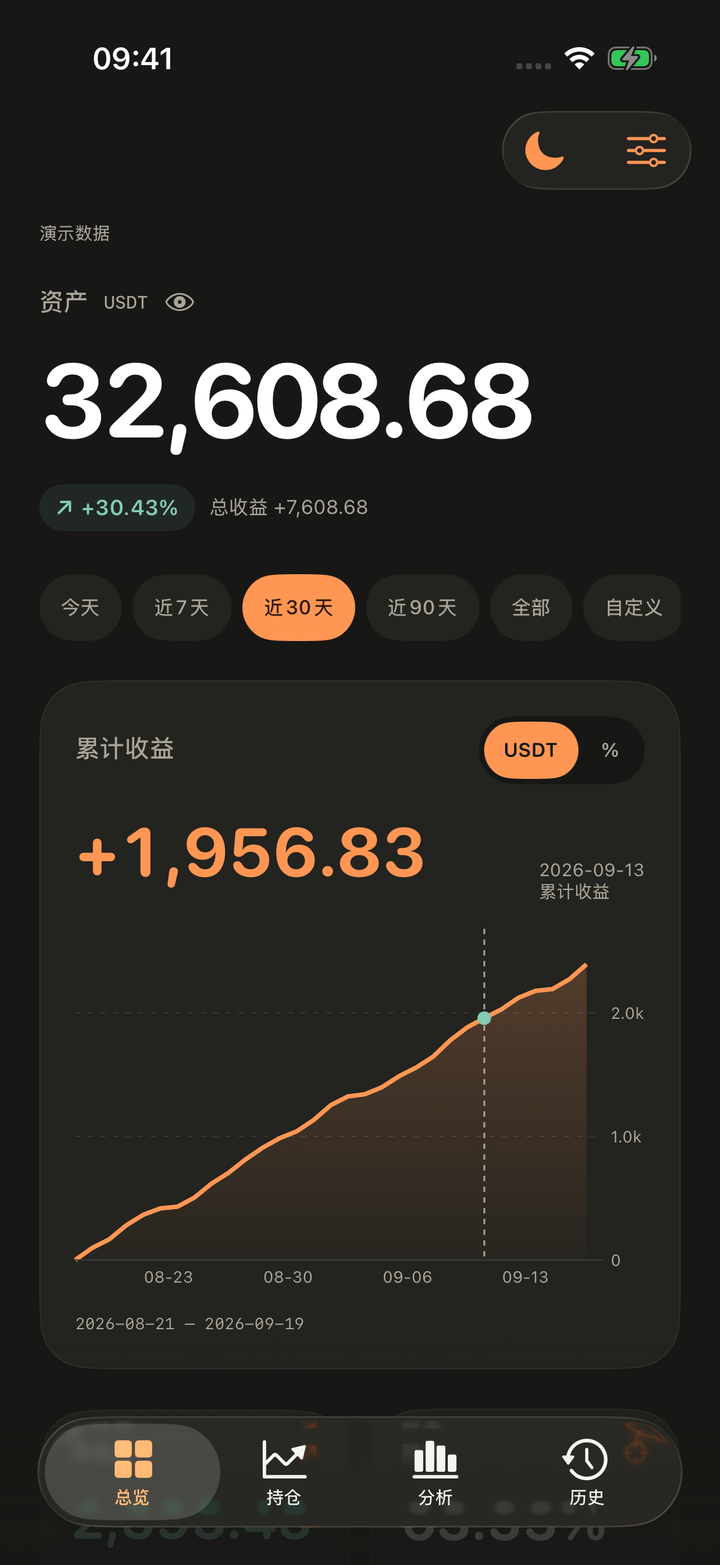
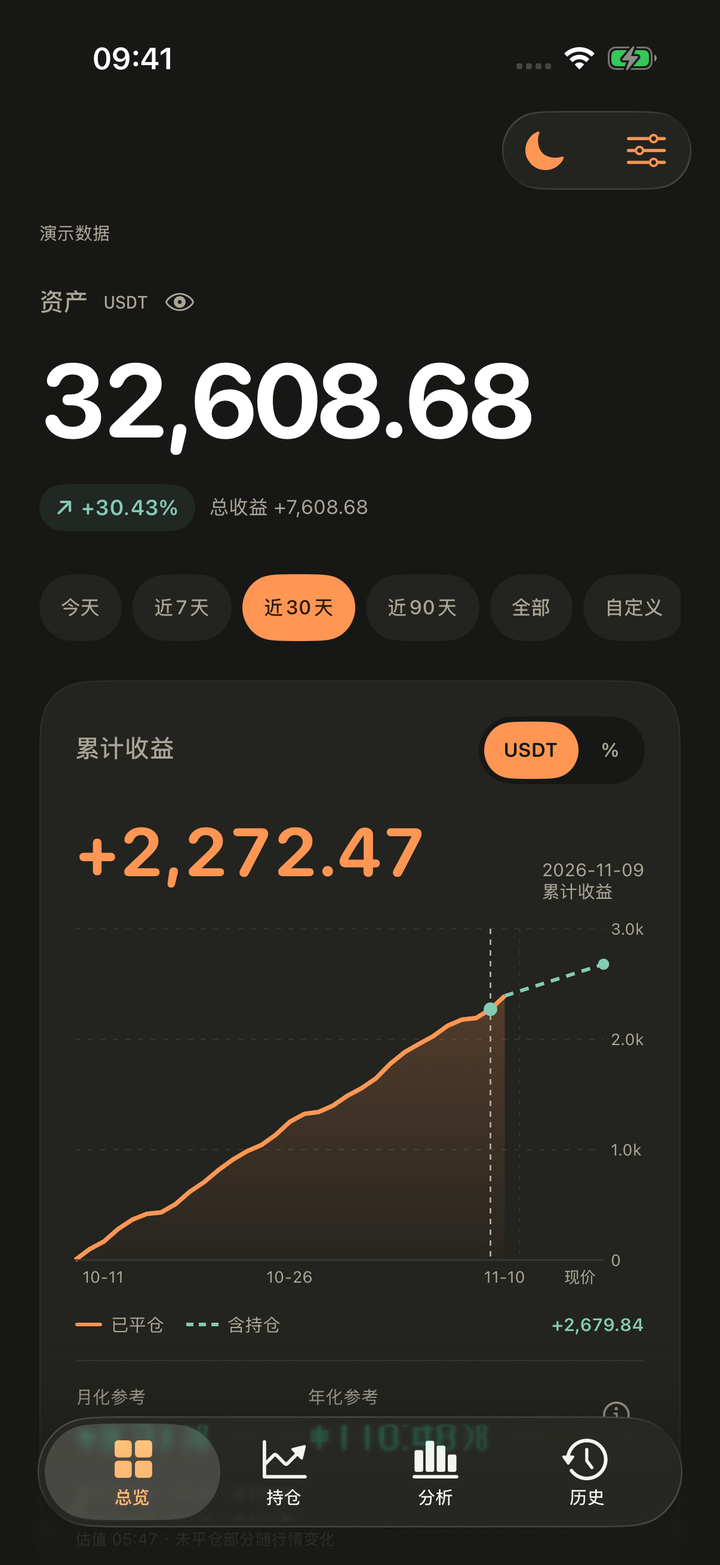
docs: publish 1.4 return formulas validation and demo screenshots

diff --git a/TESTING.md b/TESTING.md
@@ -2,16 +2,19 @@
 
 [返回首页](README.md) · [架构](docs/ARCHITECTURE.md) · [截图更新](docs/SCREENSHOTS.md#更新截图)
 
-版本：1.3（5）。验证日期：2026-09-20。
+版本：1.4（7）。验证日期：2026-11-10。
 
 ## 环境与结果
 
 - Xcode 26.2 / Swift 6.2.3。
 - iPhone 17 Pro 模拟器，iOS 26.3.1。
 - iPhone Release 签名构建成功，已完成真机覆盖安装。
-- 最新一次完整测试运行 **43 项通过、0 失败**：38 项核心、网络、缓存与收益率测试，5 项 UI 流程。
+- 核心、网络、缓存、收益率与估值测试：**46 项通过、0 失败**。
+- **6 个 UI 流程均已通过分轮验证**：导航与连接、K 线、收益百分比、月化 / 年化与持仓估值、共享时间筛选、每日柱图 / 月历 / 清理预览。
+- 首轮 UI 自动操作曾因页面动画、菜单尚未展开及滚动越过目标失败；补充状态等待并修正定位后，对相关流程定向复测通过。不是一次完整测试运行全部通过。
 - 验证了收益百分比的初始资金口径、缺失 / 零 / 非有限分母处理、负收益、单位切换、拖动选点、范围切换、隐私隐藏和重启后的单位恢复。
 - 月历覆盖完整月份、首周星期列对齐和月末日期；历史清理仍仅在模拟网络与演示预览中验证。
+- 新增收益估算覆盖月化 / 年化公式、亏损与持平、分批退出、初始资金缺失、行情无效、历史区间、跨日缓存及非有限数值。深浅色截图直接从演示 App 导出。
 
 ## 自动化覆盖
 
@@ -20,11 +23,23 @@
 | 数据与 API | URL 规范化、接口白名单、动态 K 线列、分页去重、完整历史检查、共享令牌续期、有限 GET 重试 |
 | 统计口径 | UTC 日期边界、按平仓日归属、完整月份与闰年、持平交易分母、缺失数值处理 |
 | 收益百分比 | 按初始资金计算、区间累计与亏损、无效基准拒绝、单位切换与选点保留、重启恢复 |
+| 收益估算 | 单利折算、观测天数、短样本、部分退出不重复计算、历史区间与跨日缓存保护、持仓估值读数和金额隐藏 |
 | 缓存与响应 | 常用范围预计算、缓存立即命中、快速切换结果顺序、异步磁盘恢复、服务器隔离、历史变化失效 |
 | 历史清理 | 排除未平仓及截止日记录、删除前核对身份和状态、拒绝未结束委托、失败停止、禁止不确定 DELETE 重试、重新同步、禁止重复执行同一预览 |
 | 界面 | 四页导航、连接表单校验、共享时间范围、默认拖动读数、浅深色、日历切月、历史清理预览 |
 
 历史删除通过 URLProtocol 模拟服务器验证；UI 仅预览演示数据。验证过程没有删除真实交易记录。真实服务的登录、数据读取与恢复另行人工验证；账号、地址、缓存及真实截图不纳入仓库。
+
+## 本次验证记录
+
+| 结果包 | 结果与最终采用的验证 |
+| --- | --- |
+| `Core2` | 46 项核心测试通过，0 失败 |
+| `UI2` | 6 项中 4 项通过；采用导航 / 连接、K 线、估值深浅色验证；其余问题由后续定向复测覆盖 |
+| `UI3` | 3 项中 2 项通过；采用收益百分比及隐私隐藏、共享筛选与深浅色验证；月历定位问题由后续复测覆盖 |
+| `UI5` | 每日柱图读数、月历切月和历史清理预览通过，0 失败 |
+
+结果包仅保存在本机工作目录，不上传完整日志或设备标识。Release 编译、签名校验、真机覆盖安装及启动成功；13 张公开截图全部来自 1.4 演示数据。图表检查确认现价标签、虚线连接、月化 / 年化读数和每日柱宽可见。
 
 ## 本地运行
 
@@ -44,7 +59,7 @@ xcodebuild -project FreqLens.xcodeproj -scheme FreqLens \
 
 ## 记录与复现
 
-以上是 1.3（5）的本机验证记录，仓库尚未配置自动 CI。修改代码后应按实际影响运行相关测试，不能把本记录当作后续提交的自动通过结果。
+以上是 1.4（7）的本机验证记录，仓库尚未配置自动 CI。修改代码后应按实际影响运行相关测试，不能把本记录当作后续提交的自动通过结果。
 
 需要保留测试包时，可以为 `xcodebuild test` 添加 `-resultBundlePath DerivedData/Regression.xcresult`，路径必须尚不存在。使用 Xcode 打开结果包，或运行：
 

diff --git a/README.md b/README.md
@@ -10,13 +10,13 @@
 
 **iOS 26+ · iPhone · SwiftUI · Swift Charts · 无第三方依赖**
 
-当前版本 **1.3（5）**。这是独立客户端，需要连接你自己的 Freqtrade API；没有服务器时也可以直接体验内置演示数据。
+当前版本 **1.4（7）**。这是独立客户端，需要连接你自己的 Freqtrade API；没有服务器时也可以直接体验内置演示数据。
 
 [安装与连接](docs/INSTALLATION.md) · [使用指南](docs/USER_GUIDE.md) · [全部截图](docs/SCREENSHOTS.md) · [更新记录](CHANGELOG.md)
 
 ## 界面预览
 
-以下均为 **1.3 版在 iPhone 模拟器中的演示数据**，不含真实账户信息。点击图片可查看大图。
+以下均为 **iPhone 模拟器中的演示数据**，收益估算截图已更新至 1.4，不含真实账户信息。点击图片可查看大图。
 
 <table>
   <tr>
@@ -30,12 +30,12 @@
     <td><a href="docs/images/analytics-dark.png"><img src="docs/images/analytics-dark.png" width="260" alt="深色分析：胜率、盈利因子与单笔期望"></a></td>
   </tr>
   <tr>
-    <th>收益百分比</th>
+    <th>月化、年化与持仓估值</th>
     <th>K 线读数</th>
     <th>收益日历</th>
   </tr>
   <tr>
-    <td><a href="docs/images/profit-percent-dark.png"><img src="docs/images/profit-percent-dark.png" width="260" alt="首页收益图：百分比模式与拖动收益率读数"></a></td>
+    <td><a href="docs/images/outlook-dark.png"><img src="docs/images/outlook-dark.png" width="260" alt="已实现实线、持仓估值虚线，以及月化和年化参考"></a></td>
     <td><a href="docs/images/candles-dark.png"><img src="docs/images/candles-dark.png" width="260" alt="K 线：拖动十字线读取开高低收"></a></td>
     <td><a href="docs/images/calendar-dark.png"><img src="docs/images/calendar-dark.png" width="260" alt="日历：完整月份与上个月收益"></a></td>
   </tr>
@@ -54,6 +54,8 @@
 | 交易详情 | 原生 K 线、拖动读数、入场与离场信息，以及服务器提供的止损和强平价格 |
 
 - **时间筛选**：默认近 30 天，支持今天、近 7 / 30 / 90 天、全部和自定义日期。总览、分析、历史共用选择。
+- **月化 / 年化**：基于所选区间已平仓收益做单利折算，并显示观测天数与计算口径。
+- **实线 / 虚线**：实线表示已平仓收益，虚线补上当前持仓估值；右侧“现价”是独立估值列，不代表未来日期。
 - **金额 / 百分比**：首页收益图支持账户币种与 `%` 切换，纵轴、合计与拖动读数同步更新，记住上次选择。
 - **直接读数**：单指拖动收益图或 K 线即可查看数值，收益图直接跟随上方日期区间。
 - **独立月历**：左右切换完整月份，点选日期查看当天收益和笔数。
@@ -90,9 +92,9 @@ open FreqLens.xcodeproj
 | [架构与开发](docs/ARCHITECTURE.md) | 模块职责、数据流、统计缓存、并发与删除流程 |
 | [隐私与本地存储](docs/PRIVACY.md) | 密码、令牌、配置、缓存和网络传输 |
 | [界面截图](docs/SCREENSHOTS.md) | 深浅色画廊与截图更新方法 |
-| [测试记录](TESTING.md) | 43 项测试的覆盖、运行命令与验证边界 |
+| [测试记录](TESTING.md) | 测试覆盖、运行命令与验证边界 |
 | [参与开发](CONTRIBUTING.md) | 提交方式、修改约束与验证要求 |
-| [更新记录](CHANGELOG.md) | 1.0 至 1.2 的功能变化 |
+| [更新记录](CHANGELOG.md) | 各版本的功能变化 |
 
 ## 技术与参考
 

diff --git a/docs/SCREENSHOTS.md b/docs/SCREENSHOTS.md
@@ -2,7 +2,19 @@
 
 [返回首页](../README.md) · [使用指南](USER_GUIDE.md)
 
-以下截图来自 **Freq Lens 1.3（5）**，于 2026-09-20 在 iPhone 17 Pro / iOS 26.3.1 模拟器中运行 App 截取。所有金额、仓位、交易和收益均为内置演示数据。图片仅缩放至 720 px 宽并压缩，未修改界面内容。
+以下截图来自 **Freq Lens 1.4（7）**，于 2026-11-10 在 iPhone 17 Pro / iOS 26.3.1 模拟器中运行 App 截取。所有金额、仓位、交易和收益均为内置演示数据。图片仅缩放至 720 px 宽并压缩，未修改界面内容。
+
+## 收益估算
+
+<table>
+  <tr><th>深色</th><th>浅色</th></tr>
+  <tr>
+    <td><a href="images/outlook-dark.png"><img src="images/outlook-dark.png" width="330" alt="深色收益图：实线为已平仓，虚线为含持仓现价估值，下方展示月化和年化参考"></a></td>
+    <td><a href="images/outlook-light.png"><img src="images/outlook-light.png" width="330" alt="浅色收益图：暖白背景，月化和年化数据及持仓估值读数"></a></td>
+  </tr>
+</table>
+
+月化和年化基于所选区间的已平仓收益做单利折算；右侧“现价”列用于当前持仓估值，不是未来日期。图中的百分比不是收益承诺，详见[计算口径](DATA_AND_API.md)。
 
 ## 四个页面
 
@@ -30,7 +42,7 @@
   <tr><th>K 线读数</th><th>完整月份</th></tr>
   <tr>
     <td><a href="images/candles-dark.png"><img src="images/candles-dark.png" width="260" alt="拖动 K 线十字线后显示选中行情的开高低收"></a></td>
-    <td><a href="images/calendar-dark.png"><img src="images/calendar-dark.png" width="260" alt="切换到上个月，显示完整八月的星期排列与月度合计"></a></td>
+    <td><a href="images/calendar-dark.png"><img src="images/calendar-dark.png" width="260" alt="切换到上个月，显示完整上月的星期排列与月度合计"></a></td>
   </tr>
 </table>
 
@@ -71,6 +83,9 @@ xcrun xcresulttool export attachments \
 
 | 图片 | 对应测试附件 |
 | --- | --- |
+| `outlook-dark.png` | `15-outlook-dark` |
+| `outlook-light.png` | `16-outlook-light` |
+| `daily-profit-dark.png` | `17-daily-profit` |
 | `overview-dark.png` | `01-overview` |
 | `positions-dark.png` | `02-positions` |
 | `analytics-dark.png` | `04-analytics` |
@@ -81,6 +96,10 @@ xcrun xcresulttool export attachments \
 | `analytics-light.png` | `11-warm-analytics` |
 | `calendar-dark.png` | `12-previous-month-calendar` |
 | `cleanup-preview-dark.png` | `13-deletion-preview-demo` |
+
+每日收益柱图也保留拖动读数：
+
+<a href="images/daily-profit-dark.png"><img src="images/daily-profit-dark.png" width="330" alt="每日收益柱图，按选中日期显示已平仓收益和笔数"></a>
 
 ### 手动补图
 

diff --git a/docs/DATA_AND_API.md b/docs/DATA_AND_API.md
@@ -11,6 +11,8 @@
 | 区间已实现收益 | 区间内已平仓交易 `close_profit_abs` 之和，兼容回退 `profit_abs` | 影响 |
 | 累计收益曲线 | 将交易完整已实现盈亏归属 UTC 平仓日，从区间起点由零累计 | 影响 |
 | 首页收益百分比 | 区间累计已实现收益 / `balance.starting_capital`；图表按百分数显示 | 影响分子，初始资金基准不变 |
+| 月化 / 年化参考 | 区间已平仓收益 / 初始资金 / 观测天数 × 30 / 365；单利，不含持仓 | 影响 |
+| 含持仓估值 | 区间已平仓收益 + 当前仓位的总盈亏；不重复加分批退出已实现部分 | 仅含今天的区间 |
 | 每日收益 | 按 UTC 平仓日汇总完整已实现盈亏 | 影响 |
 | 收益日历 | 按独立的完整 UTC 月份统计 | 使用日历自己的月份 |
 | 持仓总收益 | 优先 `total_profit_abs` / `total_profit_ratio`，包含分批退出的已实现部分；旧服务回退 `profit_abs` / `profit_ratio` | 不影响 |
@@ -98,3 +100,13 @@ K 线通过 `pair_candles` 请求最近最多 240 根，按服务端列名解析
 部分展示字段提供回退，但删除所需的安全字段缺失时会拒绝继续。遇到版本差异，可提交脱敏的字段结构与错误描述，参见 [参与开发](../CONTRIBUTING.md)。
 
 参考：[Freqtrade REST API](https://www.freqtrade.io/en/stable/rest-api/) · [官方后端源码](https://github.com/freqtrade/freqtrade)
+
+## 收益折算与持仓估值边界
+
+月化 = `区间已平仓收益 / starting_capital / 观测 UTC 天数 × 30`；年化将 30 替换为 365。没有复利或现金流调整，不能视为 CAGR、时间加权收益率或未来回报保证。
+
+观测期从所选区间起点开始，但不早于最早保留交易的开仓日；“全部”沿用收益曲线最早平仓日作为起点。结束日截至当前 UTC 日，今天计一天，未来日不计入。删除过历史的数据库只能代表剩余样本，短期数据尤其容易放大波动。没有平仓交易、缺失收益或无效初始资金时不折算。
+
+现价估值采用 `/status` 的 `total_profit_abs`，已包含当前仓位分批退出的 `realized_profit`，不会重复相加。旧字段回退必须同时具备 `profit_abs` 和 `realized_profit`；有效的 `current_rate` 也是前提，防止将行情获取失败时服务端返回的占位值当作估值。
+
+估值只连接区间末端到独立的“现价”列，不采样或伪造过去各日的持仓盈亏。当前位置的整笔收益可能跨越所选区间，因此该数值不是严格的区间净值收益。过去区间或跨 UTC 日快照不叠加当前仓位；同日离线数据明确标记为缓存估值。未来真实成交价、手续费与资金费都可能不同。

diff --git a/docs/USER_GUIDE.md b/docs/USER_GUIDE.md
@@ -8,6 +8,8 @@
 
 右上角外观按钮可切换浅色、深色或跟随系统；连接按钮用于添加、切换服务器或重新认证。演示数据始终带有标识，不会合并进真实交易统计。
 
+如果重新安装、签名更新或服务器令牌过期，App 会自动打开连接页并预填已保存的地址与用户名。输入密码重新连接即可；服务器配置和本机快照不会因为重新认证被删除。
+
 ## 总览与时间范围
 
 总览上方展示机器人资产和账户累计盈亏；下面的日期按钮控制区间收益曲线、区间统计，以及分析和历史页的同一区间。
@@ -27,6 +29,20 @@
 首页收益图右上角可切换账户币种（例如 USDT）与 `%`，合计、纵轴和拖动读数同步切换，下次打开保留选择。百分比按“所选区间累计已实现收益 ÷ 服务器初始资金”计算，图内标注“相对初始资金”；它不是相对所选区间期初净值的收益率。初始资金缺失或无效时 `%` 不可选，金额仍可查看。
 
 收益图始终显示上方时间筛选覆盖的区间，拖动只读取数值，不改变范围。K 线显示服务器最近提供的最多 240 根行情；打开历史交易时，也不能将这些行情理解为该笔交易发生时的完整历史行情。
+
+## 月化、年化与虚线估值
+
+首页收益图下方显示月化参考和年化参考。两者使用区间已平仓收益相对初始资金的比例，除以观测 UTC 天数，再乘以 30 或 365，采用单利折算。它们不包含持仓浮动盈亏，也不是收益承诺。
+
+图中实线为区间已平仓收益，虚线只从实线终点连到右侧独立的“现价”列。该列表示“区间已平仓收益 + 当前持仓总盈亏”，不是未来日期或真实历史浮盈走势。拖到最右侧可以读取含持仓估值，切换 `%` 后用同一个初始资金基准。
+
+- 持仓盈利时估值上移，亏损时可以下移到零以下。
+- 当前持仓总盈亏已包含分批退出部分，不会重复加一次。
+- 当前持仓可能早于区间开始开仓，含持仓值不是严格的区间净值收益。
+- 历史区间不叠加今天的仓位；缺少有效价格或盈亏字段时不画估值，跨 UTC 日的旧快照需先同步。
+- 缓存估值带更新时间；金额隐藏开关同时遮挡估值和月化、年化数字。
+
+点击图内信息按钮可以查看公式与边界。今天计一个 UTC 日，未来日期不计入观测期；不足 7 天会提示样本较短。没有已平仓记录或缺少初始资金时，折算显示 `—`。
 
 ## 当前持仓
 

diff --git a/docs/ARCHITECTURE.md b/docs/ARCHITECTURE.md
@@ -13,6 +13,7 @@ FreqLens/
 │   ├── APIClient.swift        URL、接口、认证、Keychain、网络与完整分页
 │   ├── Models.swift           服务端模型、行情列解析与基础计算
 │   ├── PeriodReport.swift     UTC 日期、筛选范围、区间统计和图表坐标
+│   ├── ProfitOutlook.swift    单利折算、观测期和当前持仓估值边界
 │   ├── SnapshotCache.swift    磁盘缓存 actor 与后台 ReportWorker
 │   ├── LensStore.swift        主状态、服务器切换、报告缓存与删除编排
 │   ├── HistoryDeletion.swift  删除预览、状态校验与结果模型
@@ -101,3 +102,7 @@ xcodebuild -project FreqLens.xcodeproj -scheme FreqLens \
 ```
 
 UI 测试使用 `--demo`；`--tab 0/1/2/3` 可选初始页，`-appearance dark` / `-appearance light` 可用于截图。演示启动不需要任何 API 凭据，截图方法见 [截图文档](SCREENSHOTS.md#更新截图)。
+
+## 估值图层
+
+`PeriodReport` 生成观测 UTC 天数与区间是否覆盖当前日；`ProfitOutlook` 在完整报告基础上计算月化 / 年化，并独立核对当前持仓估值。图表用历史点索引保持每日间距，在最右侧增加明确标为“现价”的估值列；这段横向宽度不映射未来日期。实线、虚线使用不同序列，估值纳入纵轴范围，金额与百分比复用同一数据基准。

diff --git a/CHANGELOG.md b/CHANGELOG.md
@@ -2,6 +2,19 @@
 
 [返回首页](README.md)
 
+## 1.4（7）— 2026-11-10
+
+- 首页图表增加月化和年化参考：区间已平仓收益相对初始资金，按观测 UTC 日做 30 / 365 天单利折算。
+- 实线保留已平仓收益，虚线连接右侧独立的现价估值列，计入当前持仓总盈亏；不会伪造历史浮盈曲线或未来价格。
+- 金额 / 百分比切换和拖动读数同步支持估值；亏损估值向下，缺失数据不默认为零。
+- 历史区间不叠加当前仓位，跨日缓存不充当当前估值，分批退出部分不重复相加。
+
+## 1.3（6）— 2026-11-06
+
+- 修复重新签名或钥匙串令牌不可用时只显示离线缓存、没有直接进入连接页的问题。
+- 检测到令牌缺失或服务器返回认证失败时，自动打开连接页并预填已保存的服务器地址和用户名，只需重新输入密码。
+- 重新连接成功后继续沿用原服务器配置和本机缓存隔离规则。
+
 ## 1.3（5）— 2026-09-20
 
 - 首页收益图新增账户币种与百分比切换，纵轴、累计合计和拖动读数同步更新。

diff --git a/docs/INSTALLATION.md b/docs/INSTALLATION.md
@@ -88,6 +88,7 @@ https://example.com/bot/api/v1
 | Signing / Team 报错 | 选择自己的 Team，检查 Bundle Identifier 和设备注册状态 |
 | 无法自动打开手机上的 App | 解锁手机，检查开发者模式和开发者信任状态 |
 | 登录失败 / 401 | 核对 Freqtrade API 用户名密码；令牌失效时重新连接 |
+| 显示离线缓存、登录信息已失效 | 新版会自动打开连接页并填好已保存的地址和用户名；重新输入密码即可恢复令牌，不会删除本机缓存 |
 | 404 或地址无效 | 检查 `/api/v1`、反向代理前缀及最终地址是否正确 |
 | 局域网连接失败 | 检查手机网络、系统“本地网络”权限和服务器监听配置 |
 | 502 / 503 / 504 | 检查服务器或代理；App 会对 GET 有限重试，持续失败则提示并保留已有缓存 |
